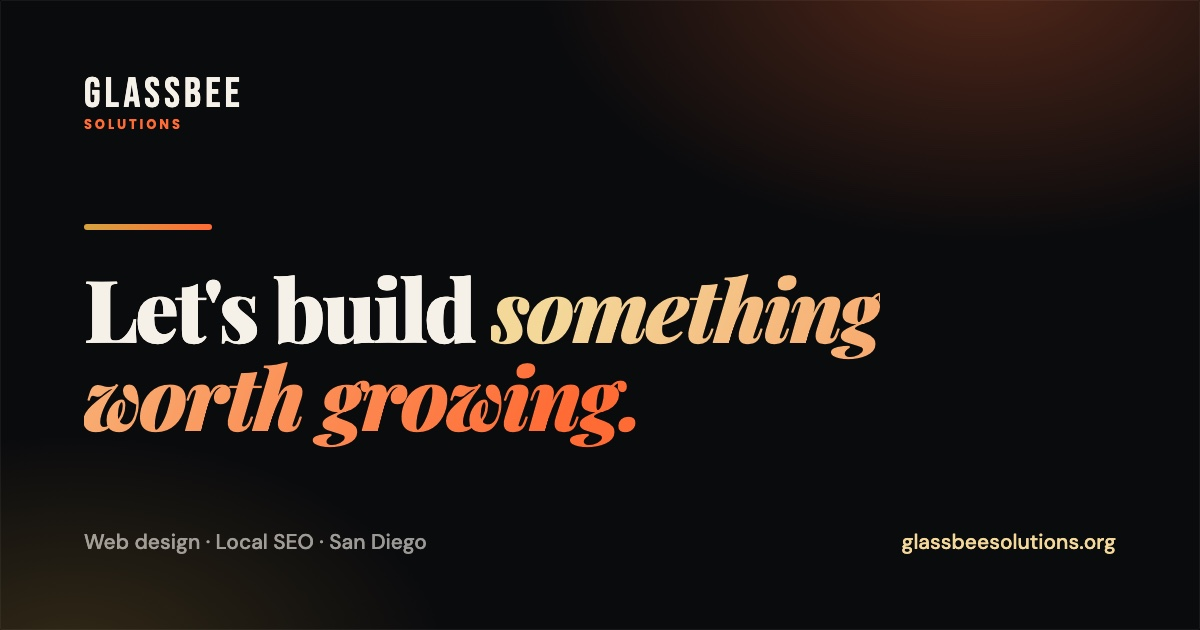
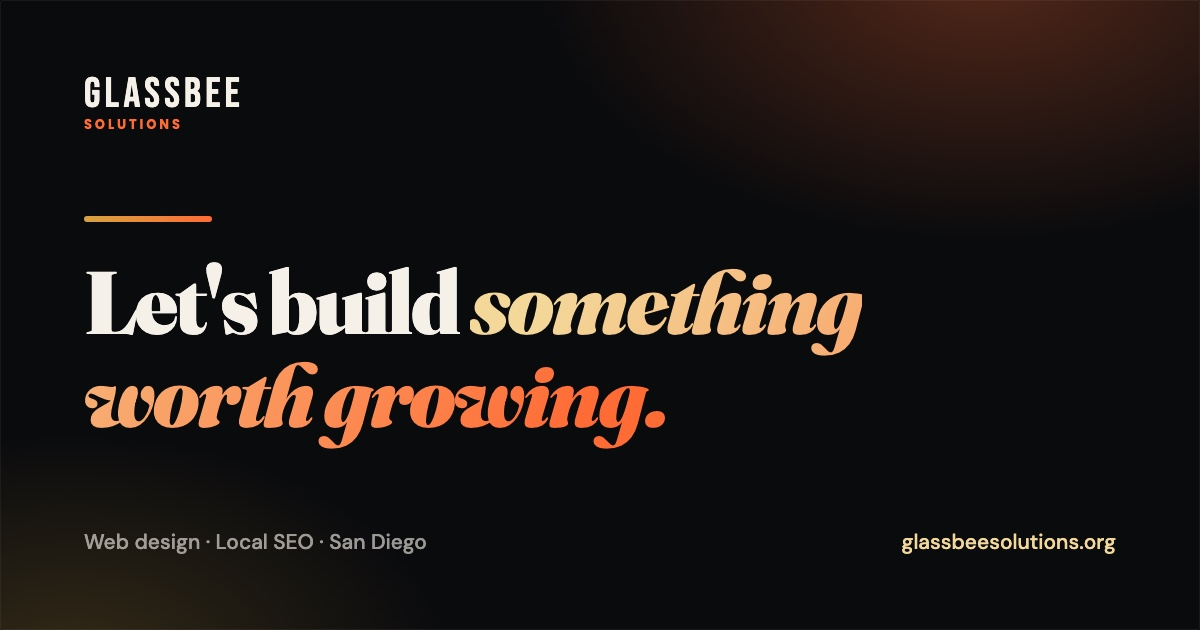
Change display font to Fraunces (both pages + OG cards)
- Headlines now use Fraunces (variable, optical sizing) instead of
  Playfair Display, on the homepage and case study; body stays DM Sans
- Regenerated og-home.jpg / og-proof.jpg in Fraunces to match

diff --git a/public/proof/index.html b/public/proof/index.html
@@ -17,7 +17,7 @@
 <meta name="twitter:title" content="Case Study: $20,985 in 4 months. Zero ad spend." />
 <meta name="twitter:description" content="Brand-new domain to a $4K to $5K monthly run rate from organic search. Verified." />
 <meta name="twitter:image" content="https://www.glassbeesolutions.org/og-proof.jpg" />
-<link href="https://fonts.googleapis.com/css2?family=Playfair+Display:ital,wght@0,700;0,900;1,700&family=DM+Sans:wght@300;400;500;600&family=Bebas+Neue&family=Poppins:wght@400;600;700&display=swap" rel="stylesheet">
+<link href="https://fonts.googleapis.com/css2?family=Fraunces:ital,opsz,wght@0,9..144,700;0,9..144,900;1,9..144,700;1,9..144,900&family=DM+Sans:wght@300;400;500;600&family=Bebas+Neue&family=Poppins:wght@400;600;700&display=swap" rel="stylesheet">
 <style>
   *, *::before, *::after { box-sizing: border-box; margin: 0; padding: 0; }
 
@@ -35,7 +35,7 @@
     --gold-lt:  #B5781A;
     --orange:   #FF6B35;
     --green:    #2E9E63;
-    --serif:    'Playfair Display', Georgia, serif;
+    --serif:    'Fraunces', Georgia, serif;
     --sans:     'DM Sans', system-ui, sans-serif;
     --ease:     cubic-bezier(0.16, 1, 0.3, 1);
     --accent:   linear-gradient(135deg, var(--gold) 0%, var(--orange) 100%);
@@ -54,6 +54,7 @@
     color: var(--text);
     line-height: 1.6;
     min-height: 100vh;
+    font-optical-sizing: auto;
     overflow-x: hidden;
     -webkit-font-smoothing: antialiased;
     -moz-osx-font-smoothing: grayscale;
